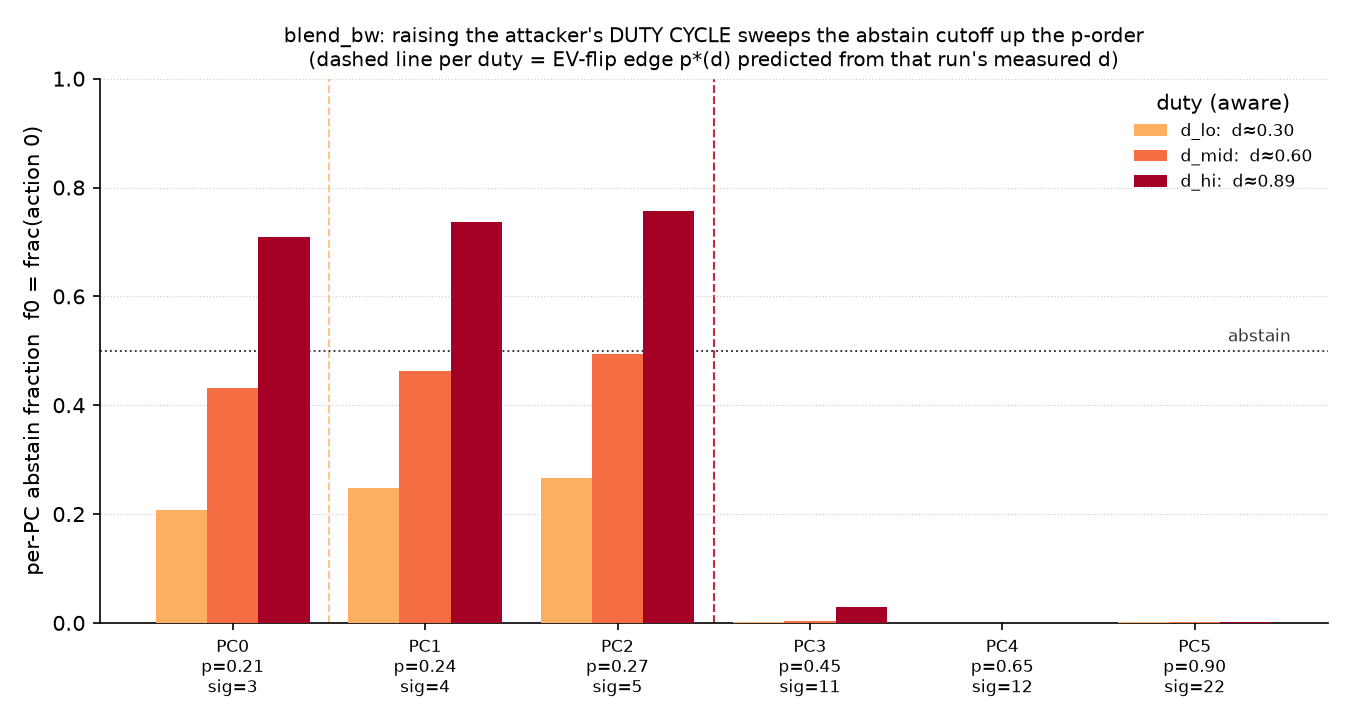
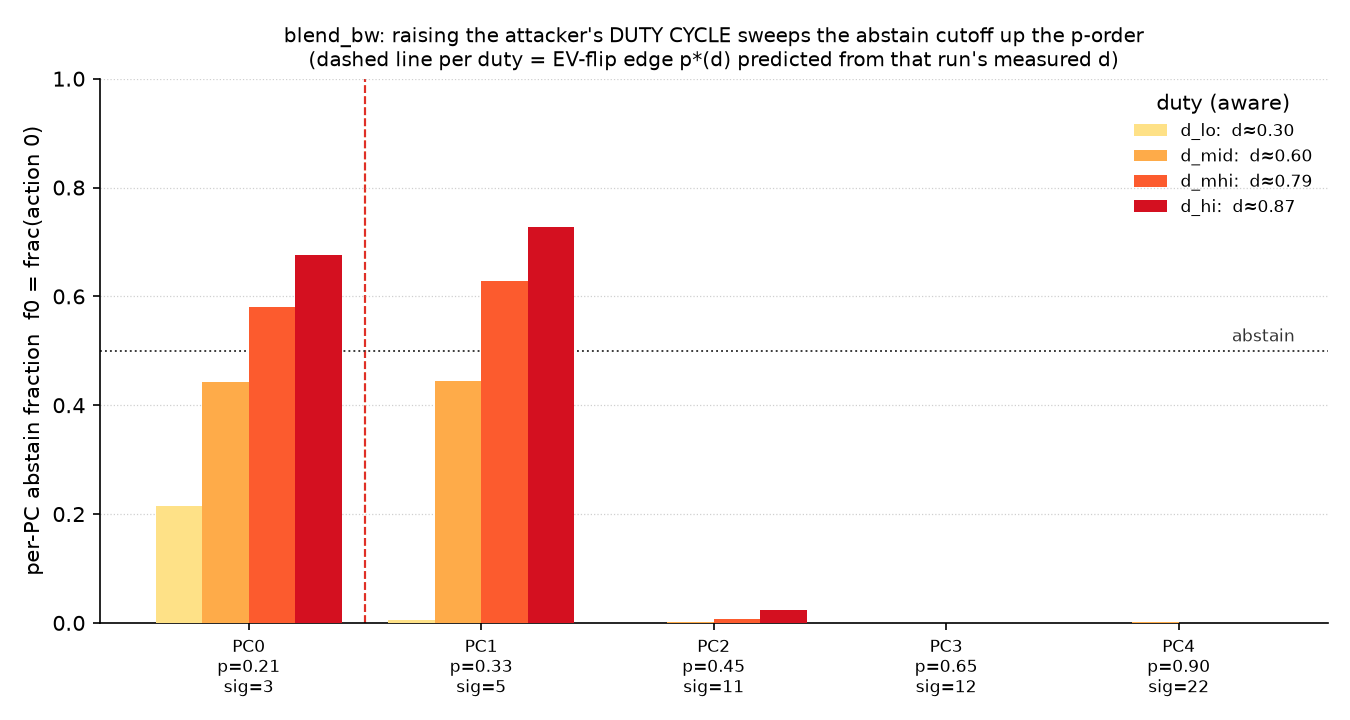
tune(blend_bw,policy_bw): refresh victim/config, rollups and plots
Update blend_bw victim.c + config.h, rollup scripts, tlist/jobfile,
and regenerate rollup.csv/.txt and degree/abstain plots. Add
atk_d_mhi aware/blind .err logs.

diff --git a/codes/blend_bw/config.h b/codes/blend_bw/config.h
@@ -19,25 +19,27 @@
  * Raising d sweeps p* from 0.143 (d=0) up to 0.353 (d=1), crossing the victim's PCs in
  * predictability order: a binary switch becomes a dial.
  *
- * The victim keeps pband_bw's STRUCTURE (six mixed-predictability PCs, disjoint 1 MiB
+ * The victim keeps pband_bw's STRUCTURE (mixed-predictability PCs, disjoint 1 MiB
  * regions, non-action noise, ALU density, blend_pc_<j> load sites) but DEVIATES in the
- * per-PC predictabilities, chosen empirically so the time-toggle drives FULL, ISOLATED
- * flips. Two constraints bound the contestable band:
- *   - Upper: pband's p=0.30/0.33 only reach PARTIAL abstention (f0~0.36) because the
- *     measured blend fraction d saturates (~0.78 at 10M, ~0.87 at 50M; a nonzero OFF
- *     phase lets the throttled victim under-sample its own ON phase). p must be low
- *     enough that, at the reachable d, the HBW reward drives f0 past 0.5.
+ * per-PC predictabilities. The FIRST blend_bw attempt clustered three contestable PCs at
+ * 0.21/0.24/0.27 (a 0.06-wide band); they flipped together as a BLOCK -- the ordered
+ * staircase never resolved (ATTACK.md 8). ROOT CAUSE: the featurewise +1 action-fallback
+ * washes out per-PC learnability, so p's 0.03 apart are indistinguishable, and the
+ * observed flip duty lags the EV model by ~+0.5 (all PCs pile at the d ceiling). The
+ * REDESIGN uses only TWO contestable PCs at the band EXTREMES (0.21, 0.33) for maximum
+ * p-separation. Two constraints still bound the band:
+ *   - Upper: p < p*(d=1)=0.353, and the measured blend fraction d saturates (~0.78 at
+ *     10M, ~0.89 at 50M; a nonzero OFF phase lets the throttled victim under-sample its
+ *     own ON phase). p=0.33 sits just under the ceiling -> flips only near max duty.
  *   - Lower: p must stay comfortably ABOVE the NORMAL-reward break-even (0.143), or raw
  *     contention tips it to abstain even with the HBW table OFF -- which breaks the
  *     isolation control. (Observed: p=0.16 abstained under the blind config too.)
- * The clean band is ~[0.21, 0.27]. The three contestable PCs use 0.21, 0.24, 0.27, whose
- * formula flip duties d_crit(p)=(28p-4)/(8-6p) are 0.28 / 0.42 / 0.56 -- all below the
- * ~0.87 reachable ceiling. NOTE: full flips need the LONG run (SIM=50M); at 10M the agent
- * under-settles and f0 caps below 0.5. The measurement half (blend_pc_<j>, nm mapping on
- * build/blend_bw_victim.out) is unchanged from pband.
+ * d_crit(p)=(28p-4)/(8-6p): 0.21->0.28, 0.33->0.87. NOTE: full flips need the LONG run
+ * (SIM=50M); at 10M the agent under-settles and f0 caps below 0.5. The measurement half
+ * (blend_pc_<j>, nm mapping on build/blend_bw_victim.out) is unchanged from pband.
  *
- * Python-reference provenance (STRUCTURE from pband; p-values tuned for blend flips):
- *   PCS   = [(0.21,3),(0.24,4),(0.27,5),(0.45,11),(0.65,12),(0.90,22)]
+ * Reference provenance (STRUCTURE from pband; p-values tuned for a 2-step staircase):
+ *   PCS   = [(0.21,3),(0.33,5),(0.45,11),(0.65,12),(0.90,22)]
  *   NOISE = (7, 8, 9, 13, 14)
  *   ALU   = 12
  *   region_lines_per_pc = 1<<14
@@ -51,22 +53,30 @@
 #define LINE_BYTES   64UL
 
 /* ------------------------------------------------------------------ victim -- */
-/* IDENTICAL to pband_bw. Six load PCs, one disjoint 1 MiB region each. */
-#define VICTIM_N_PC                6
+/* FIVE load PCs, one disjoint 1 MiB region each. (pband_bw used six; blend_bw drops
+ * to TWO contestable PCs so the staircase has the widest possible p-separation.) */
+#define VICTIM_N_PC                5
 #define VICTIM_REGION_LINES_PER_PC (1UL << 14)                         /* 16384 lines */
 #define VICTIM_REGION_BYTES_PER_PC (VICTIM_REGION_LINES_PER_PC * LINE_BYTES) /* 1 MiB */
 
 /* Per-PC (p, signature). Signatures are members of scooby_actions and avoid +1
  * (the featurewise action-fallback attractor). p is the probability the PC advances
- * by its signature; otherwise it advances by a NOISE delta. The three contestable PCs
- * (0.21, 0.24, 0.27) sit in the clean band ~[0.21, 0.27]: low enough that the HBW reward
- * drives f0 past 0.5 at the reachable duty (flip duties d_crit 0.28/0.42/0.56), high
- * enough above the normal break-even (0.143) that raw contention alone does NOT flip them
- * (so the blind isolation control stays flat). The three PCs with p >= 0.45 sit above
- * p*(d) for every reachable d and never abstain -> anchors. (These p's deviate from
- * pband_bw on purpose; see the file header.) */
-#define VICTIM_PC_P    { 0.21, 0.24, 0.27, 0.45, 0.65, 0.90 }
-#define VICTIM_PC_SIG  {    3,    4,    5,   11,   12,   22 }
+ * by its signature; otherwise it advances by a NOISE delta.
+ *
+ * STAIRCASE REDESIGN. The earlier triplet (0.21, 0.24, 0.27) was clustered in a
+ * 0.06-wide band: all three flipped together as a BLOCK (no ordered staircase; see
+ * ATTACK.md 8). The featurewise +1 fallback washes out per-PC learnability, so three
+ * p's 0.03 apart cannot resolve. We now use only TWO contestable PCs at the EXTREMES of
+ * the clean band ~[0.21, 0.33]:
+ *   PC0 p=0.21  d_crit=(28p-4)/(8-6p)=0.28  -> should flip at a LOW duty
+ *   PC1 p=0.33  d_crit=0.87                 -> should flip only near the ceiling
+ * Max separation gives the best chance of a visible 2-step staircase (PC0 before PC1).
+ * Lower bound 0.21: below it raw contention flips the PC even blind (isolation breaks).
+ * Upper bound 0.33 < p*(d=1)=0.353: still contestable, but near the reachable d ceiling
+ * (~0.89), so PC1 may only flip marginally -- the open empirical question this re-run
+ * tests. The PCs with p >= 0.45 sit above p*(d) for every reachable d -> anchors. */
+#define VICTIM_PC_P    { 0.21, 0.33, 0.45, 0.65, 0.90 }
+#define VICTIM_PC_SIG  {    3,    5,   11,   12,   22 }
 
 /* Non-action noise deltas: deliberately NOT in scooby_actions, so Pythia can only
  * ever be correct on the signature -> a clean per-PC fingerprint. */

diff --git a/codes/policy_bw/rollup.py b/codes/policy_bw/rollup.py
@@ -111,13 +111,11 @@ def l1(p, q):
 
 def make_plot(runs, configs, path,
               order=("atk_idle", "atk_light", "atk_medium", "atk_heavy")):
-    """ONE clean panel: the victim abstain fraction f0 as a function of attacker
-    intensity, one line per config (aware vs blind). This is the whole story in a
-    single axes:
-      - aware  : f0 climbs idle->heavy toward the predefined target (steering),
+    """ONE clean panel: grouped bars of the victim abstain fraction f0 per
+    attacker intensity, two bars per group (BW aware vs BW blind):
+      - aware  : f0 climbs idle->heavy (steering),
       - blind  : f0 stays flat at ~0 despite the SAME bw3 saturation (isolation).
-    A dashed line marks the attacker's predefined target f0 (PI_ABSTAIN[0]); each
-    aware point is annotated with its bw3 so the "same saturation, opposite
+    Each aware bar is annotated with its bw3 so the "same saturation, opposite
     outcome" contrast is visible without a second subplot."""
     try:
         import matplotlib
@@ -131,45 +129,37 @@ def make_plot(runs, configs, path,
     x = list(range(len(order)))
     # qualitative, CVD-safe: aware (steering) vs blind (control)
     style = {
-        "aware": dict(color="#d1495b", marker="o", label="aware (reward live)"),
-        "blind": dict(color="#6c8ebf", marker="s", label="blind (reward inert)"),
+        "aware": dict(color="#d1495b", label="BW aware"),
+        "blind": dict(color="#6c8ebf", label="BW blind"),
     }
 
     fig, ax = plt.subplots(figsize=(7.5, 4.8))
 
-    # target line first so data draws on top
-    ax.axhline(PI_ABSTAIN[0], ls="--", lw=1.2, color="#666", zorder=1,
-               label=f"predefined target f0 = {PI_ABSTAIN[0]:.2f}")
+    width = 0.38
+    bar_cfgs = [c for c in configs if c in style] or configs
+    # center the group around each tick
+    offsets = [(i - (len(bar_cfgs) - 1) / 2) * width for i in range(len(bar_cfgs))]
 
-    for cfg in configs:
-        vals, xs = [], []
+    for off, cfg in zip(offsets, bar_cfgs):
+        st = style.get(cfg, dict(label=cfg))
         for xi, nb in zip(x, order):
             r = runs.get((nb, cfg), {})
-            if r and "missing" not in r:
-                xs.append(xi); vals.append(r["f0"])
-        if not vals:
-            continue
-        st = style.get(cfg, dict(label=cfg))
-        ax.plot(xs, vals, lw=2.2, markersize=7, zorder=3, **st)
-
-    # annotate each aware point with bw3 (same-saturation context, no 2nd axis)
-    for xi, nb in zip(x, order):
-        r = runs.get((nb, "aware"), {})
-        if r and "missing" not in r:
-            ax.annotate(f"bw3={r['bw3']:.2f}", (xi, r["f0"]),
-                        textcoords="offset points", xytext=(0, 9),
-                        ha="center", fontsize=8, color="#d1495b")
+            if not r or "missing" in r:
+                continue
+            bx = xi + off
+            ax.bar(bx, r["f0"], width=width, zorder=3, **st)
+            st = {k: v for k, v in st.items() if k != "label"}  # legend once
+            if cfg == "aware":
+                ax.annotate(f"d={r['bw3']:.2f}", (bx, r["f0"]),
+                            textcoords="offset points", xytext=(0, 4),
+                            ha="center", fontsize=10, color="#d1495b")
 
     ax.set_xticks(x)
     ax.set_xticklabels(labels)
-    ax.set_xlabel("attacker intensity (DRAM footprint)")
-    ax.set_ylabel("victim abstain fraction  f0 = frac(action 0)")
-    ax.set_ylim(-0.03, 1.0)
-    ax.set_xlim(-0.2, len(order) - 0.8)
-    ax.set_title("policy_bw: victim collapses to abstain only when the reward "
-                 "signal is live\n(same bw3 saturation under 'blind' leaves it "
-                 "unmoved — isolation)", fontsize=10)
-    ax.legend(frameon=False, loc="center left")
+    ax.set_xlabel("attacker intensity")
+    ax.set_ylabel("victim abstain fraction")
+    ax.set_ylim(0, 1.0)
+    ax.legend(frameon=False, loc="upper left")
     ax.grid(axis="y", ls=":", lw=0.6, alpha=0.6)
     for s in ("top", "right"):
         ax.spines[s].set_visible(False)

diff --git a/codes/blend_bw/victim.c b/codes/blend_bw/victim.c
@@ -9,25 +9,26 @@
  * 1 MiB region.
  *
  *   PC:  (p, signature)
- *    0   (0.21,  3)   contestable  (flip duty d_crit~0.28)
- *    1   (0.24,  4)   contestable  (flip duty d_crit~0.42)
- *    2   (0.27,  5)   contestable  (flip duty d_crit~0.56)
- *    3   (0.45, 11)   anchor       (above p*(d) for every reachable d -> never abstains)
- *    4   (0.65, 12)   anchor
- *    5   (0.90, 22)   anchor
+ *    0   (0.21,  3)   contestable  (flip duty d_crit~0.28 -> flips at a LOW duty)
+ *    1   (0.33,  5)   contestable  (flip duty d_crit~0.87 -> flips near the ceiling)
+ *    2   (0.45, 11)   anchor       (above p*(d) for every reachable d -> never abstains)
+ *    3   (0.65, 12)   anchor
+ *    4   (0.90, 22)   anchor
  *
- * The contestable p's sit in the clean band ~[0.21, 0.27]: low enough that the HBW reward
- * drives f0 past the 0.5 abstain line at the reachable duty (d reaches ~0.87 at SIM=50M),
- * high enough above the normal break-even (0.143) that raw contention alone does not flip
- * them -- so the blind isolation control stays flat. (p<=0.16 breaks isolation; pband's
- * p>=0.30 only reaches partial abstention under the d ceiling. See config.h for the full
- * rationale.) Full flips need the LONG run (SIM=50M); at 10M the agent under-settles.
+ * TWO contestable PCs at the EXTREMES of the clean band ~[0.21, 0.33], for maximum
+ * p-separation. The first blend_bw used THREE clustered at 0.21/0.24/0.27 and they
+ * flipped together as a block (no staircase); widening to 0.21 vs 0.33 is the fix under
+ * test. Both stay above the normal break-even (0.143) so raw contention alone does not
+ * flip them (blind isolation stays flat; p<=0.16 breaks it), and below p*(d=1)=0.353 so
+ * both remain contestable. Full flips need the LONG run (SIM=50M); at 10M the agent
+ * under-settles. See config.h for the full rationale.
  *
  * In blend_bw the attacker TOGGLES the shared bucket in time at a chosen duty cycle d.
  * The victim's Pythia learns against a time-average of the two reward tables, so the
  * EV-flip edge p*(d)=(4+8d)/(28+6d) rises with d from 0.143 to 0.353, crossing PC0
- * (p=0.21) then PC1 (p=0.24) then PC2 (p=0.27) as the attacker dials d up. The anchors
- * (p>=0.45) stay above the edge for every d and keep prefetching their signature.
+ * (p=0.21) first, then PC1 (p=0.33) only near max duty, as the attacker dials d up -- a
+ * 2-step staircase. The anchors (p>=0.45) stay above the edge for every d and keep
+ * prefetching their signature.
  *
  * ---- SIX DISTINCT, NAMED LOAD PCs ----
  * The per-PC readout requires six distinct static load sites, and rollup.py must know
@@ -98,7 +99,6 @@ DEFINE_PC(1)
 DEFINE_PC(2)
 DEFINE_PC(3)
 DEFINE_PC(4)
-DEFINE_PC(5)
 
 int
 main(int argc, char **argv)
@@ -115,7 +115,6 @@ main(int argc, char **argv)
         blend_pc_2();
         blend_pc_3();
         blend_pc_4();
-        blend_pc_5();
     }
 
     /* unreachable; defeats dead-code elimination */

diff --git a/codes/blend_bw/rollup.py b/codes/blend_bw/rollup.py
@@ -2,9 +2,10 @@
 """
 rollup.py - result analysis for the 'blend_bw' time-toggled duty-cycle steering attack.
 
-Victim (core 0) is IDENTICAL to pband_bw: six load PCs of differing predictability
-(p, signature) = [(0.30,3),(0.33,4),(0.45,5),(0.55,11),(0.75,12),(0.95,22)]. The
-neighbor (core 1) is the SAME attacker toggled at THREE duty cycles (atk_d_lo/mid/hi):
+Victim (core 0) has FIVE load PCs of differing predictability
+(p, signature) = [(0.21,3),(0.33,5),(0.45,11),(0.65,12),(0.90,22)] -- only the first TWO
+(p=0.21, p=0.33) are contestable, placed at the band extremes for max separation. The
+neighbor (core 1) is the SAME attacker toggled at FOUR duty cycles (atk_d_lo/mid/mhi/hi):
 each ON phase saturates the shared DRAM bucket, each OFF phase lets its EWMA decay, so
 the victim's scooby spends a fraction d of its SARSA updates under the high-bandwidth
 reward table. d (the "blend fraction") is read off the victim's own bw-level histogram
@@ -15,7 +16,7 @@ The bet (blend_bw_methodology): raising d makes the EV-flip break-even
 climb continuously from 0.143 (d=0) to 0.353 (d=1). Each PC flips gamble->abstain when
 p*(d) crosses its own predictability p, i.e. at d_crit(p) = (28p-4)/(8-6p). Since d_crit
 increases with p, raising the duty flips PCs ONE AT A TIME in predictability order:
-    PC0 (p=0.30, d_crit~0.71) flips before PC1 (p=0.33, d_crit~0.87);
+    PC0 (p=0.21, d_crit~0.28) flips before PC1 (p=0.33, d_crit~0.87);
     the anchors (p>=0.45) have d_crit>1 and never flip.
 Under 'blind' the reward table never swaps, so the same bw3 (same d) steers nothing --
 the isolation control.
@@ -50,8 +51,10 @@ import re
 import subprocess
 import sys
 
-# --- victim definition (keep in lockstep with config.h; identical to pband) ---
-BLEND_PCS = [(0.21, 3), (0.24, 4), (0.27, 5), (0.45, 11), (0.65, 12), (0.90, 22)]
+# --- victim definition (keep in lockstep with config.h) ---
+# TWO contestable PCs at the band extremes (0.21, 0.33) for max p-separation; the rest
+# anchors. (First attempt used three clustered at 0.21/0.24/0.27 -> flipped as a block.)
+BLEND_PCS = [(0.21, 3), (0.33, 5), (0.45, 11), (0.65, 12), (0.90, 22)]
 BLEND_PMAX = 0.40          # contestable (blend-reachable) <=> p < this (p < p*(1)=0.353)
 PC_SYMBOL = "blend_pc_{}"  # victim.c: one noinline function per PC
 
